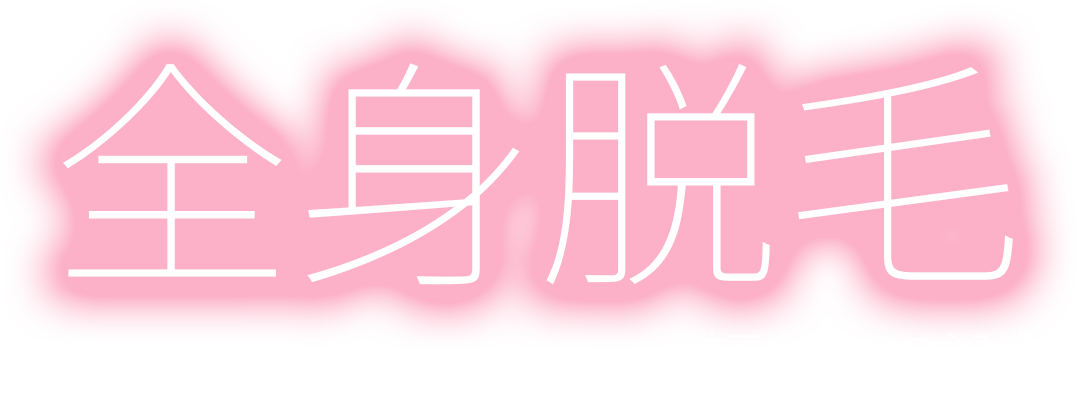
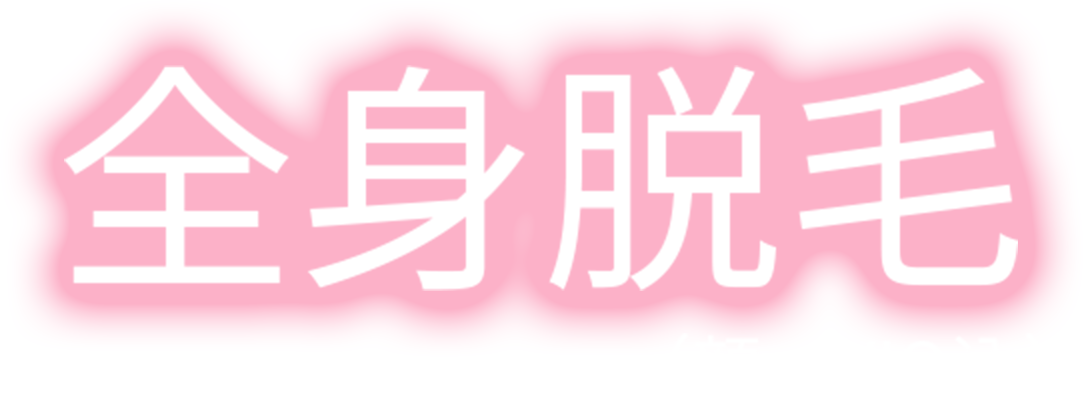
🚧 行高戻す。文字太さ指定なし。ヘッダーボタン以外PCのPP調整。

Changed region(s): [[0.0613, 0.1508, 0.4903, 0.7236], [0.4903, 0.1508, 0.7354, 0.7236], [0.7354, 0.1508, 0.9499, 0.7236]]

diff --git a/assets/style/main.css b/assets/style/main.css
@@ -1,8 +1,9 @@
 body {
   color: #333;
   font-family: "Noto Sans JP", "Outfit", arial, "Hiragino Kaku Gothic ProN", "Hiragino Sans", "BIZ UDPGothic", meiryo, serif;
-  font-weight: 100;
+  line-height: 1.5;
   font-size: 3.5897435897vw;
+  overflow-x: hidden;
   font-size: 4.1025641026vw;
 }
 @media screen and (min-width: 768px) {
@@ -63,12 +64,12 @@ img {
 }
 @media screen and (min-width: 768px) {
   .header {
-    height: 8.932038835vw;
+    height: 8.7378640777vw;
   }
 }
 @media screen and (min-width: 1030px) {
   .header {
-    height: 5.75rem;
+    height: 5.625rem;
   }
 }
 .header__container {
@@ -125,17 +126,17 @@ img {
   font-size: 3.0769230769vw;
   padding: 1.7948717949vw 4.6153846154vw 1.7948717949vw 2.5641025641vw;
   letter-spacing: 0.04em;
-  text-align: left;
+  text-align: center;
 }
 @media screen and (min-width: 768px) {
   .header__button {
     font-size: 2.0388349515vw;
-    padding: 1.1650485437vw 3.2038834951vw 1.1650485437vw 2.3300970874vw;
+    padding: 0.6796116505vw 3.3980582524vw 0.6796116505vw 1.8446601942vw;
   }
 }
 @media screen and (min-width: 1030px) {
   .header__button {
-    padding: 0.75rem 2.0625rem 0.75rem 1.5rem;
+    padding: 0.4375rem 2.1875rem 0.4375rem 1.1875rem;
     font-size: 1.3125rem;
   }
 }
@@ -178,7 +179,7 @@ img {
 }
 @media screen and (min-width: 768px) {
   .mainvisual__container {
-    padding: 0 2.9126213592vw 3.3980582524vw;
+    padding: 0 2.9126213592vw 0.8737864078vw;
     width: 100vw;
     margin-inline: auto;
     background: #fa7da3 url(/assets/image/mainvisual_bg.png) no-repeat left bottom/47.1844660194vw auto;
@@ -186,7 +187,7 @@ img {
 }
 @media screen and (min-width: 1030px) {
   .mainvisual__container {
-    padding: 0 1.875rem 2.1875rem;
+    padding: 0 1.875rem 0.5625rem;
     width: 64.375rem;
     background: #fa7da3 url(/assets/image/mainvisual_bg.png) no-repeat left bottom/30.375rem auto;
   }
@@ -220,32 +221,19 @@ img {
 }
 @media screen and (min-width: 768px) {
   .mainvisual__label-wrapper {
-    padding: 4.2718446602vw 5.6310679612vw;
+    padding: 4.2718446602vw 0 4.2718446602vw 5.6310679612vw;
     width: 41.067961165vw;
     margin-left: auto;
   }
 }
 @media screen and (min-width: 1030px) {
   .mainvisual__label-wrapper {
-    padding: 2.75rem 3.625rem;
+    padding: 2.75rem 0 2.75rem 3.625rem;
     width: 26.4375rem;
   }
 }
 .mainvisual__label {
   display: flex;
-}
-.mainvisual__icon {
-  margin-right: 2.5641025641vw;
-}
-@media screen and (min-width: 768px) {
-  .mainvisual__icon {
-    margin-right: 2.5242718447vw;
-  }
-}
-@media screen and (min-width: 1030px) {
-  .mainvisual__icon {
-    margin-right: 1.625rem;
-  }
 }
 .mainvisual__bg {
   color: #fa7da3;
@@ -276,21 +264,30 @@ img {
 @media screen and (min-width: 768px) {
   .mainvisual__label-text {
     font-size: 5.2427184466vw;
+    margin-left: 0.2912621359vw;
   }
 }
 @media screen and (min-width: 1030px) {
   .mainvisual__label-text {
     font-size: 3.375rem;
+    margin-left: 0.1875rem;
   }
 }
 @media screen and (min-width: 768px) {
   .mainvisual__price-wrapper {
     width: auto;
+    margin-left: 2.0388349515vw;
+  }
+}
+@media screen and (min-width: 1030px) {
+  .mainvisual__price-wrapper {
+    margin-left: 1.3125rem;
   }
 }
 .mainvisual__price {
   color: #fffd7a;
   font-size: 9.2307692308vw;
+  font-weight: 700;
 }
 @media screen and (min-width: 768px) {
   .mainvisual__price {
@@ -322,14 +319,13 @@ img {
 }
 @media screen and (min-width: 768px) {
   .mainvisual__list {
-    width: 41.067961165vw;
-    margin-top: 4.2718446602vw;
+    width: auto;
+    margin: 4.4660194175vw auto;
   }
 }
 @media screen and (min-width: 1030px) {
   .mainvisual__list {
-    width: 26.4375rem;
-    margin-top: 2.75rem;
+    margin: 2.875rem auto;
   }
 }
 .mainvisual__subscribe {
@@ -341,14 +337,14 @@ img {
 @media screen and (min-width: 768px) {
   .mainvisual__subscribe {
     font-size: 2.6213592233vw;
-    margin-top: 0.3883495146vw;
+    margin-top: 0.2912621359vw;
     padding-right: 6.0194174757vw;
   }
 }
 @media screen and (min-width: 1030px) {
   .mainvisual__subscribe {
     font-size: 1.6875rem;
-    margin-top: 0.25rem;
+    margin-top: 0.1875rem;
     padding-right: 3.875rem;
   }
 }
@@ -501,4 +497,4 @@ img {
   font-size: 2.5641025641vw;
   margin-top: 1.7948717949vw;
   text-align: center;
-}/*# sourceMappingURL=main.css.map */
+}

diff --git a/assets/style/main.scss b/assets/style/main.scss
@@ -16,12 +16,12 @@
     background: $color-contrast;
 
     @include mq {
-        height: vwt(92);
+        height: vwt(90);
 
     }
 
     @include mq(lg) {
-        height: px2Rem(92);
+        height: px2Rem(90);
 
     }
 
@@ -78,17 +78,17 @@
         font-size: vw(12);
         padding: vw(7) vw(18) vw(7) vw(10);
         @include l_spacing(40);
-        text-align: left;
+        text-align: center;
         // line-height: 1;
 
         @include mq {
             font-size: vwt(21);
-            padding: vwt(12) vwt(33) vwt(12) vwt(24);
+            padding: vwt(7) vwt(35) vwt(7) vwt(19);
 
         }
 
         @include mq(lg) {
-            padding: px2Rem(12) px2Rem(33) px2Rem(12) px2Rem(24);
+            padding: px2Rem(7) px2Rem(35) px2Rem(7) px2Rem(19);
             font-size: px2Rem(21);
 
 
@@ -142,14 +142,14 @@
         background: url("/assets/image/mainvisual_bg.png") no-repeat vw(4) bottom / vw(209) auto;
 
         @include mq {
-            padding: 0 vwt(30) vwt(35);
+            padding: 0 vwt(30) vwt(9);
             width: vwt(1030);
             margin-inline: auto;
             background: #fa7da3 url(/assets/image/mainvisual_bg.png) no-repeat left bottom / vwt(486) auto;
         }
 
         @include mq(lg) {
-            padding: 0 px2Rem(30) px2Rem(35);
+            padding: 0 px2Rem(30) px2Rem(9);
             width: px2Rem(1030);
             background: #fa7da3 url(/assets/image/mainvisual_bg.png) no-repeat left bottom / px2Rem(486) auto;
         }
@@ -183,13 +183,13 @@
         box-shadow: 5px 5px 0px 0px rgba(231, 116, 151, 1);
 
         @include mq {
-            padding: vwt(44) vwt(58);
+            padding: vwt(44) 0 vwt(44) vwt(58);
             width: vwt(423);
             margin-left: auto;
         }
 
         @include mq(lg) {
-            padding: px2Rem(44) px2Rem(58);
+            padding: px2Rem(44) 0 px2Rem(44) px2Rem(58);
             width: px2Rem(423);
         }
     }
@@ -199,14 +199,14 @@
     }
 
     &__icon {
-        margin-right: vw(10);
+        // margin-right: vw(10);
 
         @include mq {
-            margin-right: vwt(26);
+            // margin-right: vwt(26);
         }
 
         @include mq(lg) {
-            margin-right: px2Rem(26);
+            // margin-right: px2Rem(26);
 
         }
     }
@@ -243,12 +243,13 @@
 
         @include mq {
             font-size: vwt(54);
-
+            margin-left: vwt(3);
 
         }
 
         @include mq(lg) {
             font-size: px2Rem(54);
+            margin-left: px2Rem(3);
 
 
         }
@@ -259,14 +260,22 @@
 
         @include mq {
             width: auto;
+            margin-left: vwt(21);
         }
 
+        @include mq(lg) {
+            margin-left: px2Rem(21);
+
+
+
+        }
     }
 
     &__price {
         color: $color-warning;
         font-size: vw(36);
         // line-height: 1;
+        font-weight: 700;
 
         @include mq {
             font-size: vwt(81);
@@ -302,14 +311,14 @@
     &__list {
         width: vw(133);
         margin: vw(24) vw(26) 0 auto;
+
         @include mq {
-            width: vwt(423);
-            margin-top: vwt(44);
+            width: auto;
+            margin: vwt(46) auto;
         }
 
         @include mq(lg) {
-            width: px2Rem(423);
-            margin-top: px2Rem(44);
+            margin: px2Rem(46) auto;
         }
     }
 
@@ -321,13 +330,13 @@
 
         @include mq {
             font-size: vwt(27);
-            margin-top: vwt(4);
+            margin-top: vwt(3);
             padding-right: vwt(62);
         }
 
         @include mq(lg) {
             font-size: px2Rem(27);
-            margin-top: px2Rem(4);
+            margin-top: px2Rem(3);
             padding-right: px2Rem(62);
         }
     }
@@ -454,7 +463,8 @@
         border-radius: 0 0 vw(10) vw(10);
     }
 }
-.space{
+
+.space {
     margin-left: 5px;
 }
 

diff --git a/index.html b/index.html
@@ -44,7 +44,7 @@
                 <h1 class="mainvisual__title">
                     <picture class="media__image">
                         <source media="(min-width: 768px)" srcset="/assets/image/mainvisual_title_pc.png" type="image/png">
-                        <img src="/assets/image/mainvisual_title_sp.png" alt="全身脱毛（顔・VIO込）" class="picture-img" width="538" height="200">
+                        <img src="/assets/image/mainvisual_title_sp.png" alt="全身脱毛（顔・VIO込）" class="picture-img" width="541" height="201">
                     </picture>
                 </h1>
 

diff --git a/assets/style/settings/_index.scss b/assets/style/settings/_index.scss
@@ -111,10 +111,10 @@ $breakpoints: (
 body {
     color: $color-normal;
     font-family: $font-family;
-    font-weight: 100;
-    // @include lineheight(14, 21);
+    // font-weight: 100;
+    @include lineheight(14, 21);
     font-size: vw(14);
-    // overflow-x: hidden;
+    overflow-x: hidden;
     // @include l_spacing(40);
     @include responsive-prop(font-size, 16);
 
